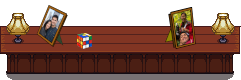
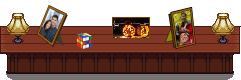
Adds pumpkin and bkb photos.

Changed region(s): [[0.4647, 0.2, 0.639, 0.5]]

diff --git a/js/world.js b/js/world.js
@@ -160,8 +160,12 @@ class World {
     acadia.depth = Depths.OBJECTS;
 
     const liam = this.scene_.add.sprite(
-        counter.x + 80, Config.WORLD_WALL_TOP_HEIGHT_PX / 2, 'liam');
+        counter.x + 87, Config.WORLD_WALL_TOP_HEIGHT_PX / 2, 'liam');
     liam.depth = Depths.OBJECTS;
+
+    const bkb = this.scene_.add.sprite(
+        counter.x + 166, Config.WORLD_WALL_TOP_HEIGHT_PX / 2, 'bkb');
+    bkb.depth = Depths.OBJECTS;
 
     this.addNonResettableObstacleSprite_(piano);
     this.addNonResettableObstacleSprite_(flowers);

diff --git a/js/main.js b/js/main.js
@@ -50,6 +50,7 @@ function main() {
     });
 
     this.load.image('acadia', 'img/acadia.png');
+    this.load.image('bkb', 'img/bkb.png');
     this.load.image('bookcase', 'img/bookcase.png');
     this.load.image('counter', 'img/counter.png');
     this.load.image('crate', 'img/crate.png');
